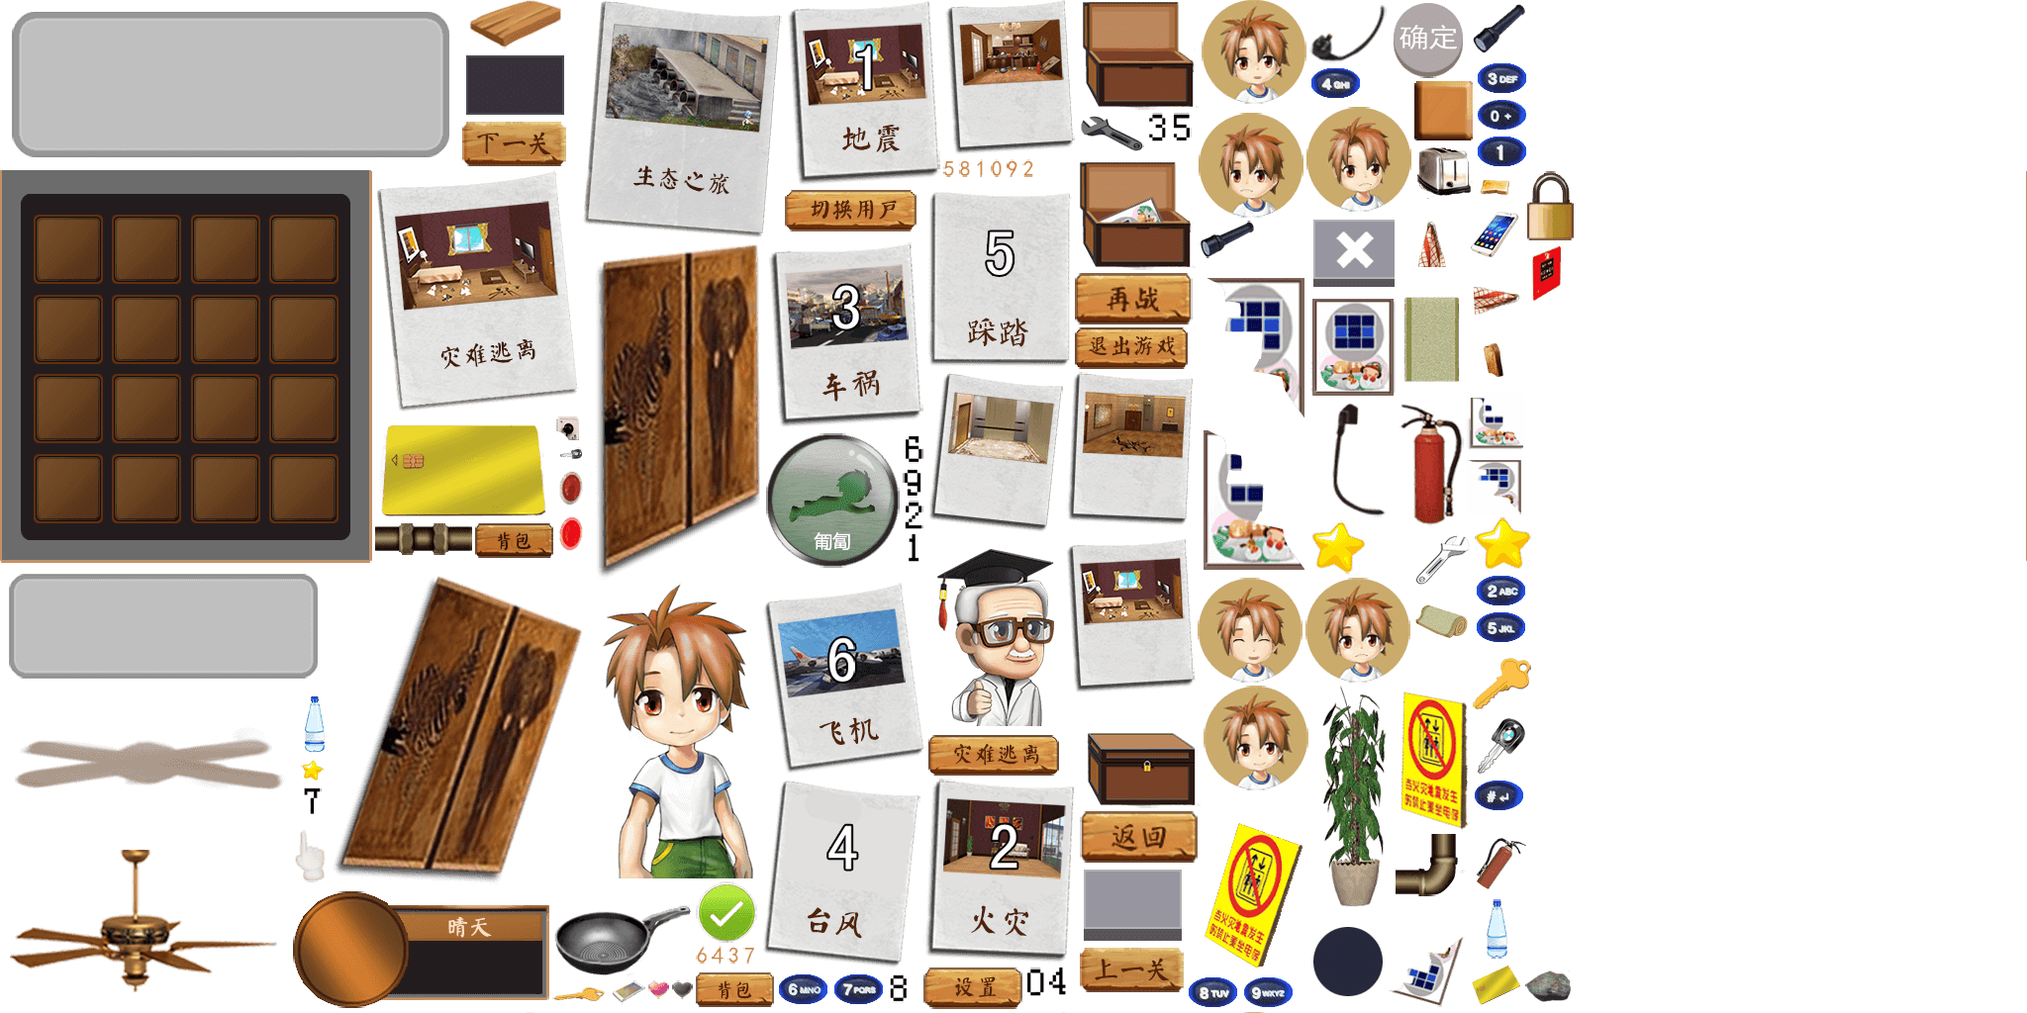
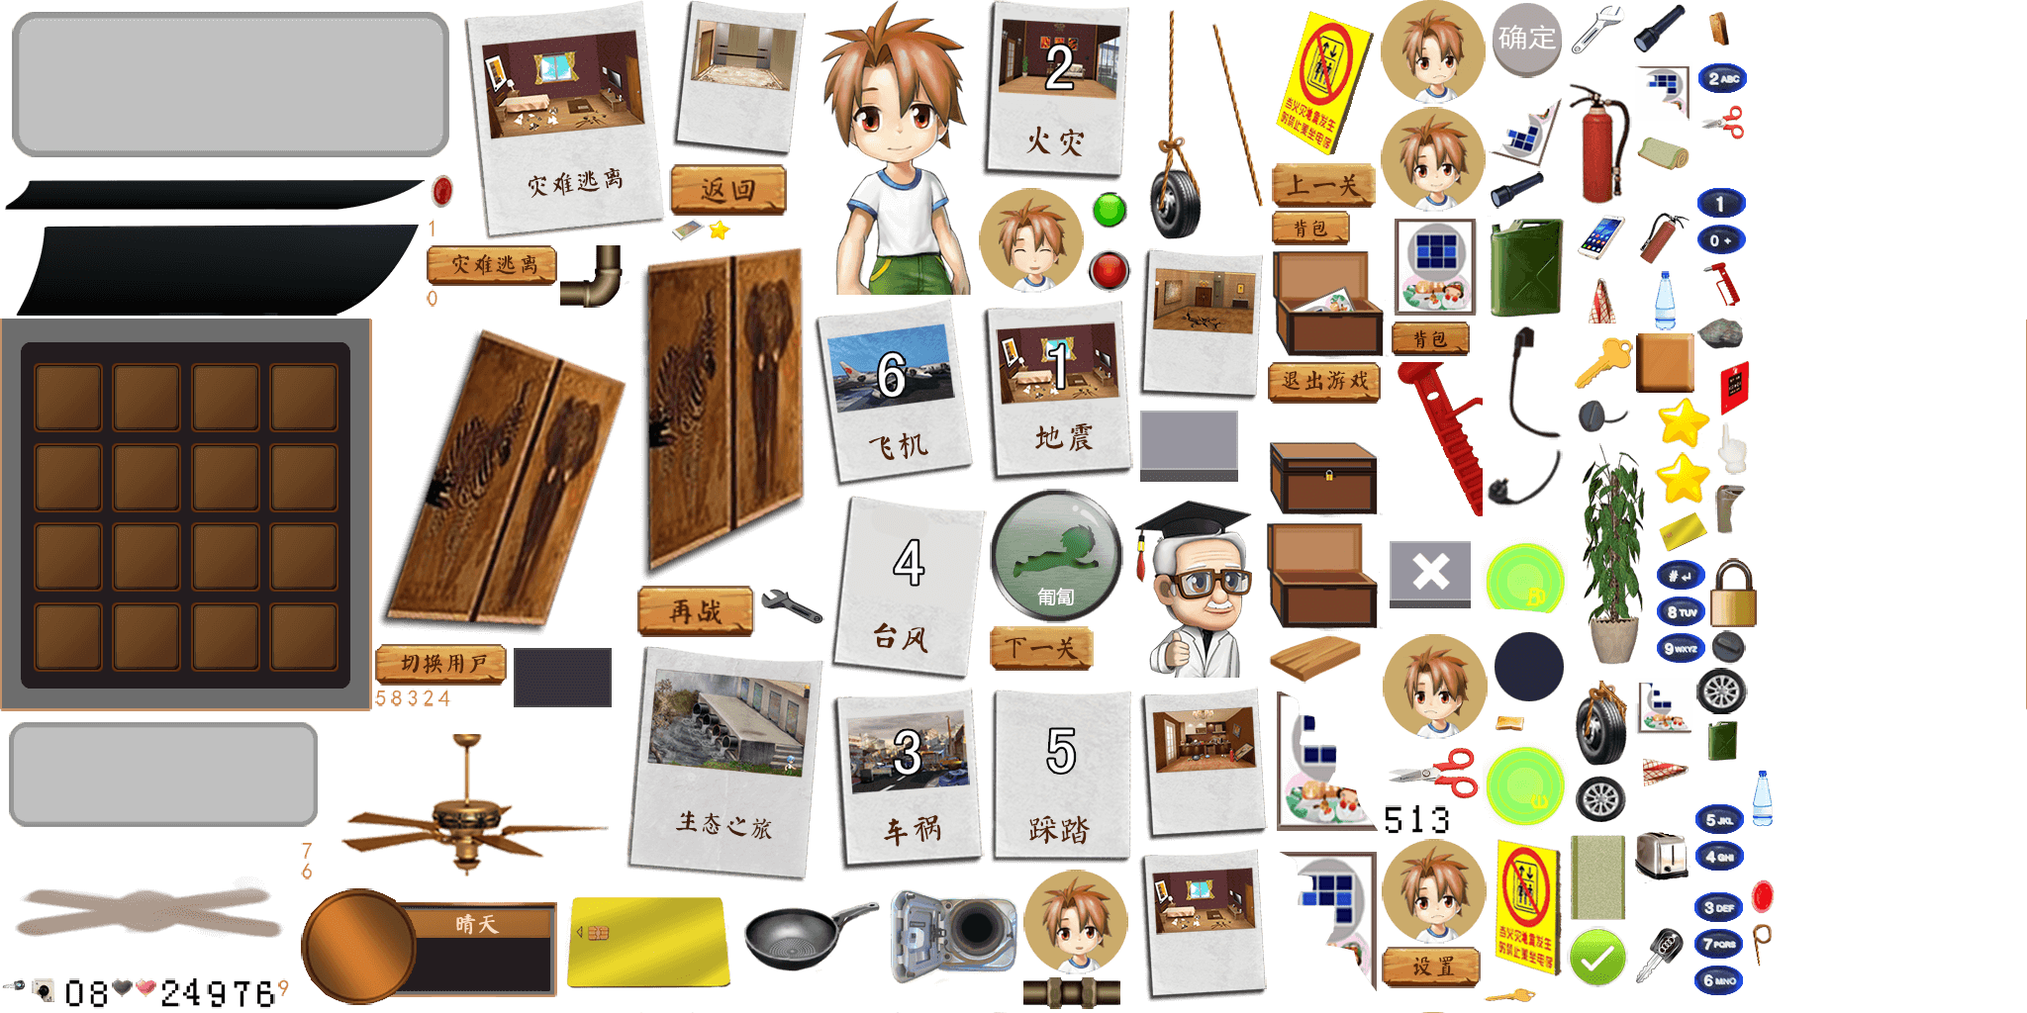
add new uimap

diff --git a/bak/js/data/configdata.js b/bak/js/data/configdata.js
@@ -15,8 +15,9 @@ game.configdata = new function(){
 	//loading images
 	self.DOWNLOADLIST_PNGS = ['stive.png','bedroomafter.png', 'bedroombefore.png', 'boyactions.png', 'breakbridge.png', 'carglass.png', 'carmeter.png', 'carsafetybelt.png', 'circlebridge.png', 'cookieroom.png', 'corridor.png', 'corridorrbg.png', 'depot.png', 'drawer.png', 'effect2.png', 'effects.png', 'fallobjs.png', 'firecorridor.jpg', 'fireglassbg.png', 'gameover.png', 'gasolinecar.png', 'hfireeffect.png', 'interlude.png', 'mainbg.png', 'passwordbg.png','saloon.png', 'shakecorridor.jpg', 'telbg.png', 'uimap.png', 'washroombg.png', 'waterbasin.jpg', 'wwboyactions.png'];
 	//objects
-	self.IMAGEDATA_1 = {"empty":[0,0,0,0],"telnum02":[913,507,19,29],"pass04":[770,788,159,191],"flower":[1326,694,80,232],"ragicon":[1420,218,57,58],"lockbox":[1092,706,120,110],"halfpic01":[1211,277,108,149],"wallpaper02":[600,246,170,339],"backbtn":[1092,821,117,50],"tel1":[1492,137,51,32],"pankey":[559,992,53,26],"holepic":[1324,299,87,103],"tel6":[786,984,51,32],"overhalfpic":[1405,931,74,86],"right":[704,892,60,60],"tel8":[1200,987,51,32],"pass05":[937,193,145,179],"btnchangeuser":[794,193,131,40],"plug2":[1324,0,76,63],"annihilator":[1414,407,64,124],"headicon2":[1217,694,104,104],"iphone":[617,992,34,22],"boxkeyicon":[1489,662,57,58],"telnum06":[913,439,19,29],"telnum09":[913,473,19,29],"towelicon":[1429,599,57,58],"toolsbg":[0,173,375,395],"whitenum09":[1018,162,11,16],"nextpass":[468,124,103,43],"ragonfloor":[1482,272,57,58],"pan":[559,902,140,85],"telnum03":[1160,115,19,29],"telnum00":[1037,979,19,29],"tel7":[842,984,51,32],"hand_001":[297,840,33,51],"whitenum02":[1034,162,11,16],"whitenum03":[736,957,11,16],"firelamp2":[563,519,28,41],"whitenum07":[752,957,11,16],"toaster":[1430,146,57,58],"tel5":[1491,618,51,32],"breadicon":[1482,335,57,58],"pass02":[934,788,153,186],"passbtndown":[1092,876,106,78],"tel4":[1324,68,51,32],"fanshader":[0,701,300,134],"prepass":[1092,959,103,43],"pipe":[380,530,96,30],"whitenum05":[954,162,11,16],"breadonfloor":[1492,174,40,30],"pass03":[775,246,157,188],"tilebg":[0,573,330,123],"telnum08":[898,984,19,29],"firewarnbtn":[1544,247,36,60],"plug1":[1324,407,85,115],"headok01":[1215,0,104,104],"drinkicon":[1484,910,57,58],"boy":[600,590,165,297],"telnum04":[1061,979,19,29],"doctorhead":[939,544,132,195],"halfpic02":[1211,431,108,149],"headfail0":[1320,585,104,104],"ceilingfan1":[0,840,292,171],"headbg":[297,902,257,116],"wallpaper01":[335,573,260,324],"whitenum06":[704,957,11,16],"openbox":[1087,162,120,110],"heart02":[656,992,19,17],"pillow":[468,0,111,48],"whitenum00":[1002,162,11,16],"headfail2":[1320,585,104,104],"warnpaper01":[1411,694,73,145],"suo":[1544,174,45,68],"tel9":[1256,987,51,32],"doorcard":[380,422,178,103],"bedroomglim":[1212,224,57,36],"start01":[1324,527,56,52],"tryagain":[1087,277,117,50],"tel0":[1492,100,51,32],"surebtn2":[1324,931,76,78],"doctorbg":[0,0,463,168],"emptybox":[1090,0,120,110],"storebtn2":[704,984,77,33],"phoneicon":[1482,209,57,58],"start02":[1491,524,56,52],"firelamp1":[563,473,28,41],"spannericon":[1429,536,57,58],"tel3":[1492,63,51,32],"surebtn1":[1405,0,76,78],"corridorpass":[1078,377,128,155],"carkey":[563,453,28,15],"headfail3":[1321,109,104,104],"whitenum04":[720,957,11,16],"quitbt":[1087,332,112,40],"pass06":[770,590,164,193],"warnpaper02":[1214,821,105,161],"liftpass":[937,377,136,162],"telnum05":[1184,115,19,29],"crawlbtn":[775,439,133,134],"panspanner":[1090,115,65,40],"whitenum08":[970,162,11,16],"telenter":[1489,788,51,32],"killfireicon":[1487,844,57,58],"cookiepass":[954,0,131,157],"telnum07":[305,795,19,29],"pass01":[794,0,155,188],"carkeyicon":[1489,725,57,58],"towel":[1416,299,61,89],"elbow":[1411,844,71,61],"smallplug":[563,422,28,26],"whitenum01":[986,162,11,16],"stoneicon":[1542,973,50,45],"setup":[934,979,98,40],"bedroompass":[1076,544,130,157],"tel2":[1491,581,51,32],"bedroomdrink":[305,701,25,62],"largepass02":[380,173,204,244],"telnum01":[913,541,19,29],"pass01btn":[939,744,130,39],"largepass01":[589,0,200,241],"storebtn1":[481,530,77,33],"halfpic01icon":[1483,398,57,58],"smallstar":[305,768,21,22],"doorcardicon":[1484,973,53,45],"shader":[1430,83,57,58],"heart01":[680,992,19,17],"halfpic02icon":[1483,461,57,58],"lockpanelexit":[1324,218,91,76],"passbtnup":[468,53,106,66],"headfail1":[1212,115,104,104],"glimicon":[1486,0,57,58],"headok02":[1211,585,104,104]};
+	self.IMAGEDATA_1 = {"empty":[0,0,0,0],"telnum02":[162,990,19,29],"pass04":[837,500,159,191],"flower":[1588,449,80,232],"ragicon":[1592,275,57,58],"lockbox":[1276,412,120,110],"halfpic01":[1284,857,108,149],"wallpaper02":[645,249,170,339],"tyreicon":[1715,676,50,45],"backbtn":[677,167,117,50],"parcan":[1734,484,31,60],"lintyre":[1148,0,133,247],"pankey":[1500,993,53,26],"holepic":[1407,218,87,103],"tel6":[1711,975,51,32],"overhalfpic":[1505,83,74,86],"starbtn02":[1099,191,43,43],"starbtn01":[1099,252,43,43],"hammer":[1401,367,96,171],"right":[1584,937,60,60],"tel8":[1673,602,51,32],"pass05":[999,696,145,179],"smallplug":[33,990,28,26],"bedroompass":[1149,857,130,157],"plug2":[1502,449,76,63],"gascover05":[1729,638,34,33],"annihilator":[1584,83,64,124],"headicon2":[1396,109,104,104],"iphone":[677,222,34,22],"hammericon":[1716,263,50,45],"boxkeyicon":[1592,338,57,58],"telnum06":[258,990,19,29],"telnum09":[210,990,19,29],"towelicon":[1653,126,57,58],"toolsbg":[0,323,375,395],"whitenum09":[282,990,11,16],"nextpass":[1001,634,103,43],"ragonfloor":[1653,749,57,58],"pan":[750,898,140,85],"telnum03":[1446,815,19,29],"telnum00":[66,990,19,29],"tyreonfloor":[1589,686,59,90],"tel7":[1711,938,51,32],"hand_001":[1734,428,33,51],"whitenum00":[432,293,11,16],"whitenum02":[428,697,11,16],"whitenum03":[412,697,11,16],"firelamp2":[1767,886,28,41],"whitenum07":[305,851,11,16],"toaster":[1650,838,57,58],"tel5":[1712,812,51,32],"breadicon":[1710,0,57,58],"pass01btn":[432,249,130,39],"passbtndown":[1149,412,106,78],"tel4":[1712,849,51,32],"fanshader":[0,851,300,134],"prepass":[1286,166,103,43],"pipe":[1035,989,96,30],"whitenum05":[380,697,11,16],"breadonfloor":[1507,716,40,30],"pass03":[837,696,157,188],"tilebg":[0,723,330,123],"telnum08":[90,990,19,29],"firewarnbtn":[1734,363,36,60],"plug1":[1502,329,85,115],"headok01":[1035,880,104,104],"drinkicon":[1654,275,57,58],"gascan":[1499,218,86,106],"telnum04":[186,990,19,29],"doctorhead":[1139,495,132,195],"halfpic02":[1285,695,108,149],"headfail0":[1397,849,104,104],"ceilingfan1":[335,723,292,171],"headbg":[305,899,257,116],"wallpaper01":[380,323,260,324],"whitenum06":[305,872,11,16],"openbox":[1282,252,120,110],"heart02":[138,990,19,17],"clipper":[1398,751,96,59],"pillow":[1276,642,111,48],"gasolineicon":[1715,726,50,45],"headfail2":[1397,849,104,104],"warnpaper01":[1506,843,73,145],"suo":[1729,565,45,68],"gascover03":[1592,401,54,38],"tel9":[1673,639,51,32],"doorcard":[567,899,178,103],"cutline":[1767,932,27,48],"bedroomglim":[1505,174,57,36],"start01":[1673,401,56,52],"cover02":[0,173,428,44],"tryagain":[645,593,117,50],"tel0":[1714,226,51,32],"boy":[820,0,165,297],"surebtn2":[1507,633,76,78],"doctorbg":[0,0,463,168],"emptybox":[1276,527,120,110],"storebtn2":[1286,214,77,33],"phoneicon":[1590,212,57,58],"canlamp":[1497,543,86,85],"start02":[1673,458,56,52],"cover01":[0,222,427,96],"firelamp1":[433,173,28,41],"spannericon":[1586,0,57,58],"tel3":[1711,901,51,32],"surebtn1":[1505,0,76,78],"corridorpass":[1149,252,128,155],"clippericon":[1715,100,50,45],"carkey":[0,990,28,15],"headfail3":[1396,0,104,104],"whitenum04":[444,697,11,16],"doorcardicon":[1673,515,53,45],"pass06":[820,302,164,193],"warnpaper02":[1286,0,105,161],"liftpass":[677,0,136,162],"telnum05":[1398,815,19,29],"crawlbtn":[1001,495,133,134],"panspanner":[767,593,65,40],"whitenum08":[396,697,11,16],"telenter":[1673,565,51,32],"quitbt":[1282,367,112,40],"killfireicon":[1652,212,57,58],"cookiepass":[1149,695,131,157],"telnum07":[234,990,19,29],"pass01":[989,302,155,188],"carkeyicon":[1649,937,57,58],"towel":[1584,843,61,89],"elbow":[567,249,71,61],"btnchangeuser":[380,652,131,40],"whitenum01":[432,222,11,16],"stoneicon":[1716,313,50,45],"setup":[1397,958,98,40],"tel1":[1714,189,51,32],"tel2":[1715,63,51,32],"bedroomdrink":[1768,776,25,62],"largepass02":[468,0,204,244],"telnum01":[1422,815,19,29],"pass02":[990,0,153,186],"largepass01":[632,652,200,241],"tyre":[1589,781,57,52],"storebtn1":[1407,326,77,33],"halfpic01icon":[1653,686,57,58],"smallstar":[716,222,21,22],"shader":[1654,338,57,58],"heart01":[114,990,19,17],"halfpic02icon":[1653,63,57,58],"lockpanelexit":[1401,543,91,76],"gascover04":[895,889,135,107],"passbtnup":[516,652,106,66],"headfail1":[1398,642,104,104],"safelamp":[1499,751,85,87],"glimicon":[1648,0,57,58],"headok02":[990,191,104,104]};
 
+	
 	//effects
 	self.IMAGEDATA_2={"smog03":[526,384,110,105],"starteffect08":[234,278,146,139],"smog01":[526,174,110,105],"smog08":[526,69,110,105],"starteffect12":[234,834,146,139],"starteffect13":[380,0,146,139],"starteffect11":[234,695,146,139],"starteffect07":[234,417,146,139],"starteffect04":[234,556,146,139],"annihilatoreffect06":[0,320,234,160],"annihilatoreffect02":[0,800,234,160],"annihilatoreffect03":[0,640,234,160],"shandian_00002":[636,316,84,71],"annihilatoreffect01":[0,0,234,160],"fire4":[526,0,128,69],"starteffect09":[380,695,146,139],"smog02":[526,279,110,105],"smog07":[636,69,110,105],"smog05":[526,594,110,105],"smog04":[526,489,110,105],"extinguish1":[507,972,127,52],"starteffect10":[380,556,146,139],"extinguish3":[0,960,127,52],"starteffect05":[234,0,146,139],"annihilatoreffect04":[0,480,234,160],"starteffect06":[234,139,146,139],"shandian_00004":[636,387,84,71],"shandian_00005":[636,245,84,71],"shandian_00006":[636,529,84,71],"shandian_00001":[636,174,84,71],"smog06":[526,699,110,105],"xiaodianhua_00005":[127,960,64,64],"starteffect01":[380,417,146,139],"starteffect02":[380,278,146,139],"extinguish4":[380,972,127,52],"shandian_00003":[636,458,84,71],"fire3":[508,834,128,69],"fire1":[380,834,128,69],"xiaodianhua_00001":[636,664,64,64],"xiaodianhua_00006":[636,600,64,64],"extinguish2":[634,972,127,52],"annihilatoreffect05":[0,160,234,160],"fire2":[380,903,128,69],"starteffect03":[380,139,146,139],"fire5":[508,903,128,69]};
 	//actions

diff --git a/bak/new_file.js b/bak/new_file.js
@@ -1,1 +1,1 @@
-{"telnum02":[913,507,19,29],"pass04":[770,788,159,191],"flower":[1326,694,80,232],"ragicon":[1420,218,57,58],"lockbox":[1092,706,120,110],"halfpic01":[1211,277,108,149],"wallpaper02":[600,246,170,339],"backbtn":[1092,821,117,50],"tel1":[1492,137,51,32],"pankey":[559,992,53,26],"holepic":[1324,299,87,103],"tel6":[786,984,51,32],"overhalfpic":[1405,931,74,86],"right":[704,892,60,60],"tel8":[1200,987,51,32],"pass05":[937,193,145,179],"btnchangeuser":[794,193,131,40],"plug2":[1324,0,76,63],"annihilator":[1414,407,64,124],"headicon2":[1217,694,104,104],"iphone":[617,992,34,22],"boxkeyicon":[1489,662,57,58],"telnum06":[913,439,19,29],"telnum09":[913,473,19,29],"towelicon":[1429,599,57,58],"toolsbg":[0,173,375,395],"whitenum09":[1018,162,11,16],"nextpass":[468,124,103,43],"ragonfloor":[1482,272,57,58],"pan":[559,902,140,85],"telnum03":[1160,115,19,29],"telnum00":[1037,979,19,29],"tel7":[842,984,51,32],"hand_001":[297,840,33,51],"whitenum02":[1034,162,11,16],"whitenum03":[736,957,11,16],"firelamp2":[563,519,28,41],"whitenum07":[752,957,11,16],"toaster":[1430,146,57,58],"tel5":[1491,618,51,32],"breadicon":[1482,335,57,58],"pass02":[934,788,153,186],"passbtndown":[1092,876,106,78],"tel4":[1324,68,51,32],"fanshader":[0,701,300,134],"prepass":[1092,959,103,43],"pipe":[380,530,96,30],"whitenum05":[954,162,11,16],"breadonfloor":[1492,174,40,30],"pass03":[775,246,157,188],"tilebg":[0,573,330,123],"telnum08":[898,984,19,29],"firewarnbtn":[1544,247,36,60],"plug1":[1324,407,85,115],"headok01":[1215,0,104,104],"drinkicon":[1484,910,57,58],"boy":[600,590,165,297],"telnum04":[1061,979,19,29],"doctorhead":[939,544,132,195],"halfpic02":[1211,431,108,149],"headfail0":[1320,585,104,104],"ceilingfan1":[0,840,292,171],"headbg":[297,902,257,116],"wallpaper01":[335,573,260,324],"whitenum06":[704,957,11,16],"openbox":[1087,162,120,110],"heart02":[656,992,19,17],"pillow":[468,0,111,48],"whitenum00":[1002,162,11,16],"headfail2":[1320,585,104,104],"warnpaper01":[1411,694,73,145],"suo":[1544,174,45,68],"tel9":[1256,987,51,32],"doorcard":[380,422,178,103],"bedroomglim":[1212,224,57,36],"start01":[1324,527,56,52],"tryagain":[1087,277,117,50],"tel0":[1492,100,51,32],"surebtn2":[1324,931,76,78],"doctorbg":[0,0,463,168],"emptybox":[1090,0,120,110],"storebtn2":[704,984,77,33],"phoneicon":[1482,209,57,58],"start02":[1491,524,56,52],"firelamp1":[563,473,28,41],"spannericon":[1429,536,57,58],"tel3":[1492,63,51,32],"surebtn1":[1405,0,76,78],"corridorpass":[1078,377,128,155],"carkey":[563,453,28,15],"headfail3":[1321,109,104,104],"whitenum04":[720,957,11,16],"quitbt":[1087,332,112,40],"pass06":[770,590,164,193],"warnpaper02":[1214,821,105,161],"liftpass":[937,377,136,162],"telnum05":[1184,115,19,29],"crawlbtn":[775,439,133,134],"panspanner":[1090,115,65,40],"whitenum08":[970,162,11,16],"telenter":[1489,788,51,32],"killfireicon":[1487,844,57,58],"cookiepass":[954,0,131,157],"telnum07":[305,795,19,29],"pass01":[794,0,155,188],"carkeyicon":[1489,725,57,58],"towel":[1416,299,61,89],"elbow":[1411,844,71,61],"smallplug":[563,422,28,26],"whitenum01":[986,162,11,16],"stoneicon":[1542,973,50,45],"setup":[934,979,98,40],"bedroompass":[1076,544,130,157],"tel2":[1491,581,51,32],"bedroomdrink":[305,701,25,62],"largepass02":[380,173,204,244],"telnum01":[913,541,19,29],"pass01btn":[939,744,130,39],"largepass01":[589,0,200,241],"storebtn1":[481,530,77,33],"halfpic01icon":[1483,398,57,58],"smallstar":[305,768,21,22],"doorcardicon":[1484,973,53,45],"shader":[1430,83,57,58],"heart01":[680,992,19,17],"halfpic02icon":[1483,461,57,58],"lockpanelexit":[1324,218,91,76],"passbtnup":[468,53,106,66],"headfail1":[1212,115,104,104],"glimicon":[1486,0,57,58],"headok02":[1211,585,104,104]};
+{"telnum02":[162,990,19,29],"pass04":[837,500,159,191],"flower":[1588,449,80,232],"ragicon":[1592,275,57,58],"lockbox":[1276,412,120,110],"halfpic01":[1284,857,108,149],"wallpaper02":[645,249,170,339],"tyreicon":[1715,676,50,45],"backbtn":[677,167,117,50],"parcan":[1734,484,31,60],"lintyre":[1148,0,133,247],"pankey":[1500,993,53,26],"holepic":[1407,218,87,103],"tel6":[1711,975,51,32],"overhalfpic":[1505,83,74,86],"starbtn02":[1099,191,43,43],"starbtn01":[1099,252,43,43],"hammer":[1401,367,96,171],"right":[1584,937,60,60],"tel8":[1673,602,51,32],"pass05":[999,696,145,179],"smallplug":[33,990,28,26],"bedroompass":[1149,857,130,157],"plug2":[1502,449,76,63],"gascover05":[1729,638,34,33],"annihilator":[1584,83,64,124],"headicon2":[1396,109,104,104],"iphone":[677,222,34,22],"hammericon":[1716,263,50,45],"boxkeyicon":[1592,338,57,58],"telnum06":[258,990,19,29],"telnum09":[210,990,19,29],"towelicon":[1653,126,57,58],"toolsbg":[0,323,375,395],"whitenum09":[282,990,11,16],"nextpass":[1001,634,103,43],"ragonfloor":[1653,749,57,58],"pan":[750,898,140,85],"telnum03":[1446,815,19,29],"telnum00":[66,990,19,29],"tyreonfloor":[1589,686,59,90],"tel7":[1711,938,51,32],"hand_001":[1734,428,33,51],"whitenum00":[432,293,11,16],"whitenum02":[428,697,11,16],"whitenum03":[412,697,11,16],"firelamp2":[1767,886,28,41],"whitenum07":[305,851,11,16],"toaster":[1650,838,57,58],"tel5":[1712,812,51,32],"breadicon":[1710,0,57,58],"pass01btn":[432,249,130,39],"passbtndown":[1149,412,106,78],"tel4":[1712,849,51,32],"fanshader":[0,851,300,134],"prepass":[1286,166,103,43],"pipe":[1035,989,96,30],"whitenum05":[380,697,11,16],"breadonfloor":[1507,716,40,30],"pass03":[837,696,157,188],"tilebg":[0,723,330,123],"telnum08":[90,990,19,29],"firewarnbtn":[1734,363,36,60],"plug1":[1502,329,85,115],"headok01":[1035,880,104,104],"drinkicon":[1654,275,57,58],"gascan":[1499,218,86,106],"telnum04":[186,990,19,29],"doctorhead":[1139,495,132,195],"halfpic02":[1285,695,108,149],"headfail0":[1397,849,104,104],"ceilingfan1":[335,723,292,171],"headbg":[305,899,257,116],"wallpaper01":[380,323,260,324],"whitenum06":[305,872,11,16],"openbox":[1282,252,120,110],"heart02":[138,990,19,17],"clipper":[1398,751,96,59],"pillow":[1276,642,111,48],"gasolineicon":[1715,726,50,45],"headfail2":[1397,849,104,104],"warnpaper01":[1506,843,73,145],"suo":[1729,565,45,68],"gascover03":[1592,401,54,38],"tel9":[1673,639,51,32],"doorcard":[567,899,178,103],"cutline":[1767,932,27,48],"bedroomglim":[1505,174,57,36],"start01":[1673,401,56,52],"cover02":[0,173,428,44],"tryagain":[645,593,117,50],"tel0":[1714,226,51,32],"boy":[820,0,165,297],"surebtn2":[1507,633,76,78],"doctorbg":[0,0,463,168],"emptybox":[1276,527,120,110],"storebtn2":[1286,214,77,33],"phoneicon":[1590,212,57,58],"canlamp":[1497,543,86,85],"start02":[1673,458,56,52],"cover01":[0,222,427,96],"firelamp1":[433,173,28,41],"spannericon":[1586,0,57,58],"tel3":[1711,901,51,32],"surebtn1":[1505,0,76,78],"corridorpass":[1149,252,128,155],"clippericon":[1715,100,50,45],"carkey":[0,990,28,15],"headfail3":[1396,0,104,104],"whitenum04":[444,697,11,16],"doorcardicon":[1673,515,53,45],"pass06":[820,302,164,193],"warnpaper02":[1286,0,105,161],"liftpass":[677,0,136,162],"telnum05":[1398,815,19,29],"crawlbtn":[1001,495,133,134],"panspanner":[767,593,65,40],"whitenum08":[396,697,11,16],"telenter":[1673,565,51,32],"quitbt":[1282,367,112,40],"killfireicon":[1652,212,57,58],"cookiepass":[1149,695,131,157],"telnum07":[234,990,19,29],"pass01":[989,302,155,188],"carkeyicon":[1649,937,57,58],"towel":[1584,843,61,89],"elbow":[567,249,71,61],"btnchangeuser":[380,652,131,40],"whitenum01":[432,222,11,16],"stoneicon":[1716,313,50,45],"setup":[1397,958,98,40],"tel1":[1714,189,51,32],"tel2":[1715,63,51,32],"bedroomdrink":[1768,776,25,62],"largepass02":[468,0,204,244],"telnum01":[1422,815,19,29],"pass02":[990,0,153,186],"largepass01":[632,652,200,241],"tyre":[1589,781,57,52],"storebtn1":[1407,326,77,33],"halfpic01icon":[1653,686,57,58],"smallstar":[716,222,21,22],"shader":[1654,338,57,58],"heart01":[114,990,19,17],"halfpic02icon":[1653,63,57,58],"lockpanelexit":[1401,543,91,76],"gascover04":[895,889,135,107],"passbtnup":[516,652,106,66],"headfail1":[1398,642,104,104],"safelamp":[1499,751,85,87],"glimicon":[1648,0,57,58],"headok02":[990,191,104,104]};

diff --git a/bak/js/scene/depotscene.js b/bak/js/scene/depotscene.js
@@ -7,6 +7,7 @@
 		depotTime:0,
 		gasolinecan:null,
 		cardoorhandler:null,
+		linetyre:null,
 		
 		shakeTime:0,
 		shakeLevel:0,
@@ -260,11 +261,13 @@
 		changeBg:function(){
 			var scene = this;
 			Hilo.Tween.to(scene, {
-				alpha:0.01
+				alpha:0.01,
 			}, {
 				duration: 400,
-				//ease: Hilo.Ease.Bounce.EaseOut,
+				delay:3000,
 				onComplete: function() {
+					scene.interludetxt.removeFromParent();
+					scene.bgImg.setImage(game.getImg('depot'));
 					Hilo.Tween.to(scene, {
 						alpha:1
 					}, {
@@ -272,7 +275,8 @@
 						//ease: Hilo.Ease.Bounce.EaseOut,
 						onComplete: function() {
 							scene.alpha = 1;
-							scene.bgImg.setImage(game.getImg('depot'));
+							
+							
 						}
 					});
 				}
@@ -287,28 +291,32 @@
 			this.bgImg = new Hilo.Bitmap({
 				image: game.getImg('interlude'),
 			}).addTo(this);
-			this.interludetxt = new Hilo.Bitmap({
-				image: img,
-				rect:game.configdata.getPngRect('boy','uimap'),
-				x:1202,
-				y:200,
-			}).addTo(this);
+			
 			this.gasolinecan  = new game.ActiveObject({
-				x:387,
-				y:433,
+				x:375,
+				y:423,
 				status:1,
-				readyImgUrl:'firelamp2',
-				finishedImgUrl:'firelamp2',
+				readyImgUrl:'parcan',
+				finishedImgUrl:'parcan',
 				clickArea:[0,0,40,40],
 			}).addTo(this);
 			
 			this.cardoorhandler  = new game.ActiveObject({
-				x:557,
-				y:504,
+				x:530,
+				y:478,
 				status:1,
-				readyImgUrl:'iphone',
-				finishedImgUrl:'iphone',
-				clickArea:[0,0,40,40],
+				readyImgUrl:'empty',
+				finishedImgUrl:'empty',
+				clickArea:[0,0,60,60],
+			}).addTo(this);
+			
+			this.linetyre  = new game.ActiveObject({
+				x:-12,
+				y:270,
+				status:1,
+				readyImgUrl:'lintyre',
+				finishedImgUrl:'lintyre',
+				clickArea:[0,0,60,60],
 			}).addTo(this);
 			
 				/*this.pillow  = new game.ActiveObject({
@@ -429,13 +437,19 @@
 				this.drink.status = 1;
 				this.medicalkit.status =1;
 			}*/
+			
+			this.interludetxt = new Hilo.Bitmap({
+				image: 'img/note03.png',
+				x:1202,
+				y:200,
+			}).addTo(this);
 		},
 		onUpdate:function(){
 			this.depotTime++;
-			if(this.depotTime == 100){
+			if(this.depotTime == 70){
 				var scene = this;
 				new Hilo.Tween.to(scene.interludetxt,{
-						x:-210,
+						x:210,
 					},{
 						duration:5000,
 						onComplete:function(){
@@ -465,10 +479,7 @@
 				game.sounds.play(13,false);
 				this.shakeRoom(700,10);
 			}
-			if(this.readyShakeTime == 900){
-				this.changeBg();
-				//this.tasktxt1.visible = true;
-			}
+			
 			if(this.readyShakeTime == 1200){
 				this.glim.status = 1;
 				this.pillow.status = 1;

diff --git a/bak/js/scene/scene.js b/bak/js/scene/scene.js
@@ -261,8 +261,8 @@
 			var scene = this;
 			this.btnpass01.on(Hilo.event.POINTER_START, function(e) {
 				game.sounds.play(2,false);
-				game.switchScene(game.configdata.SCENE_NAMES.passchoice);
-				//game.switchScene(game.configdata.SCENE_NAMES.attack,[200,600]);
+				//game.switchScene(game.configdata.SCENE_NAMES.passchoice);
+				game.switchScene(game.configdata.SCENE_NAMES.depot,[200,600]);
 			});
 			this.btnExit.on(Hilo.event.POINTER_START, function(e) {
 				window.close();

diff --git a/bak/js/scene/fireglassroomscene.js b/bak/js/scene/fireglassroomscene.js
@@ -172,7 +172,7 @@
 				image:'img/note02.png',
 			}).addTo(this);
 			img.on(Hilo.event.POINTER_START, function(e) {
-				//game.switchScene(game.configdata.SCENE_NAMES.depot);
+				game.switchScene(game.configdata.SCENE_NAMES.passchoice);
 			});
 		},
 		setPassData:function(){
